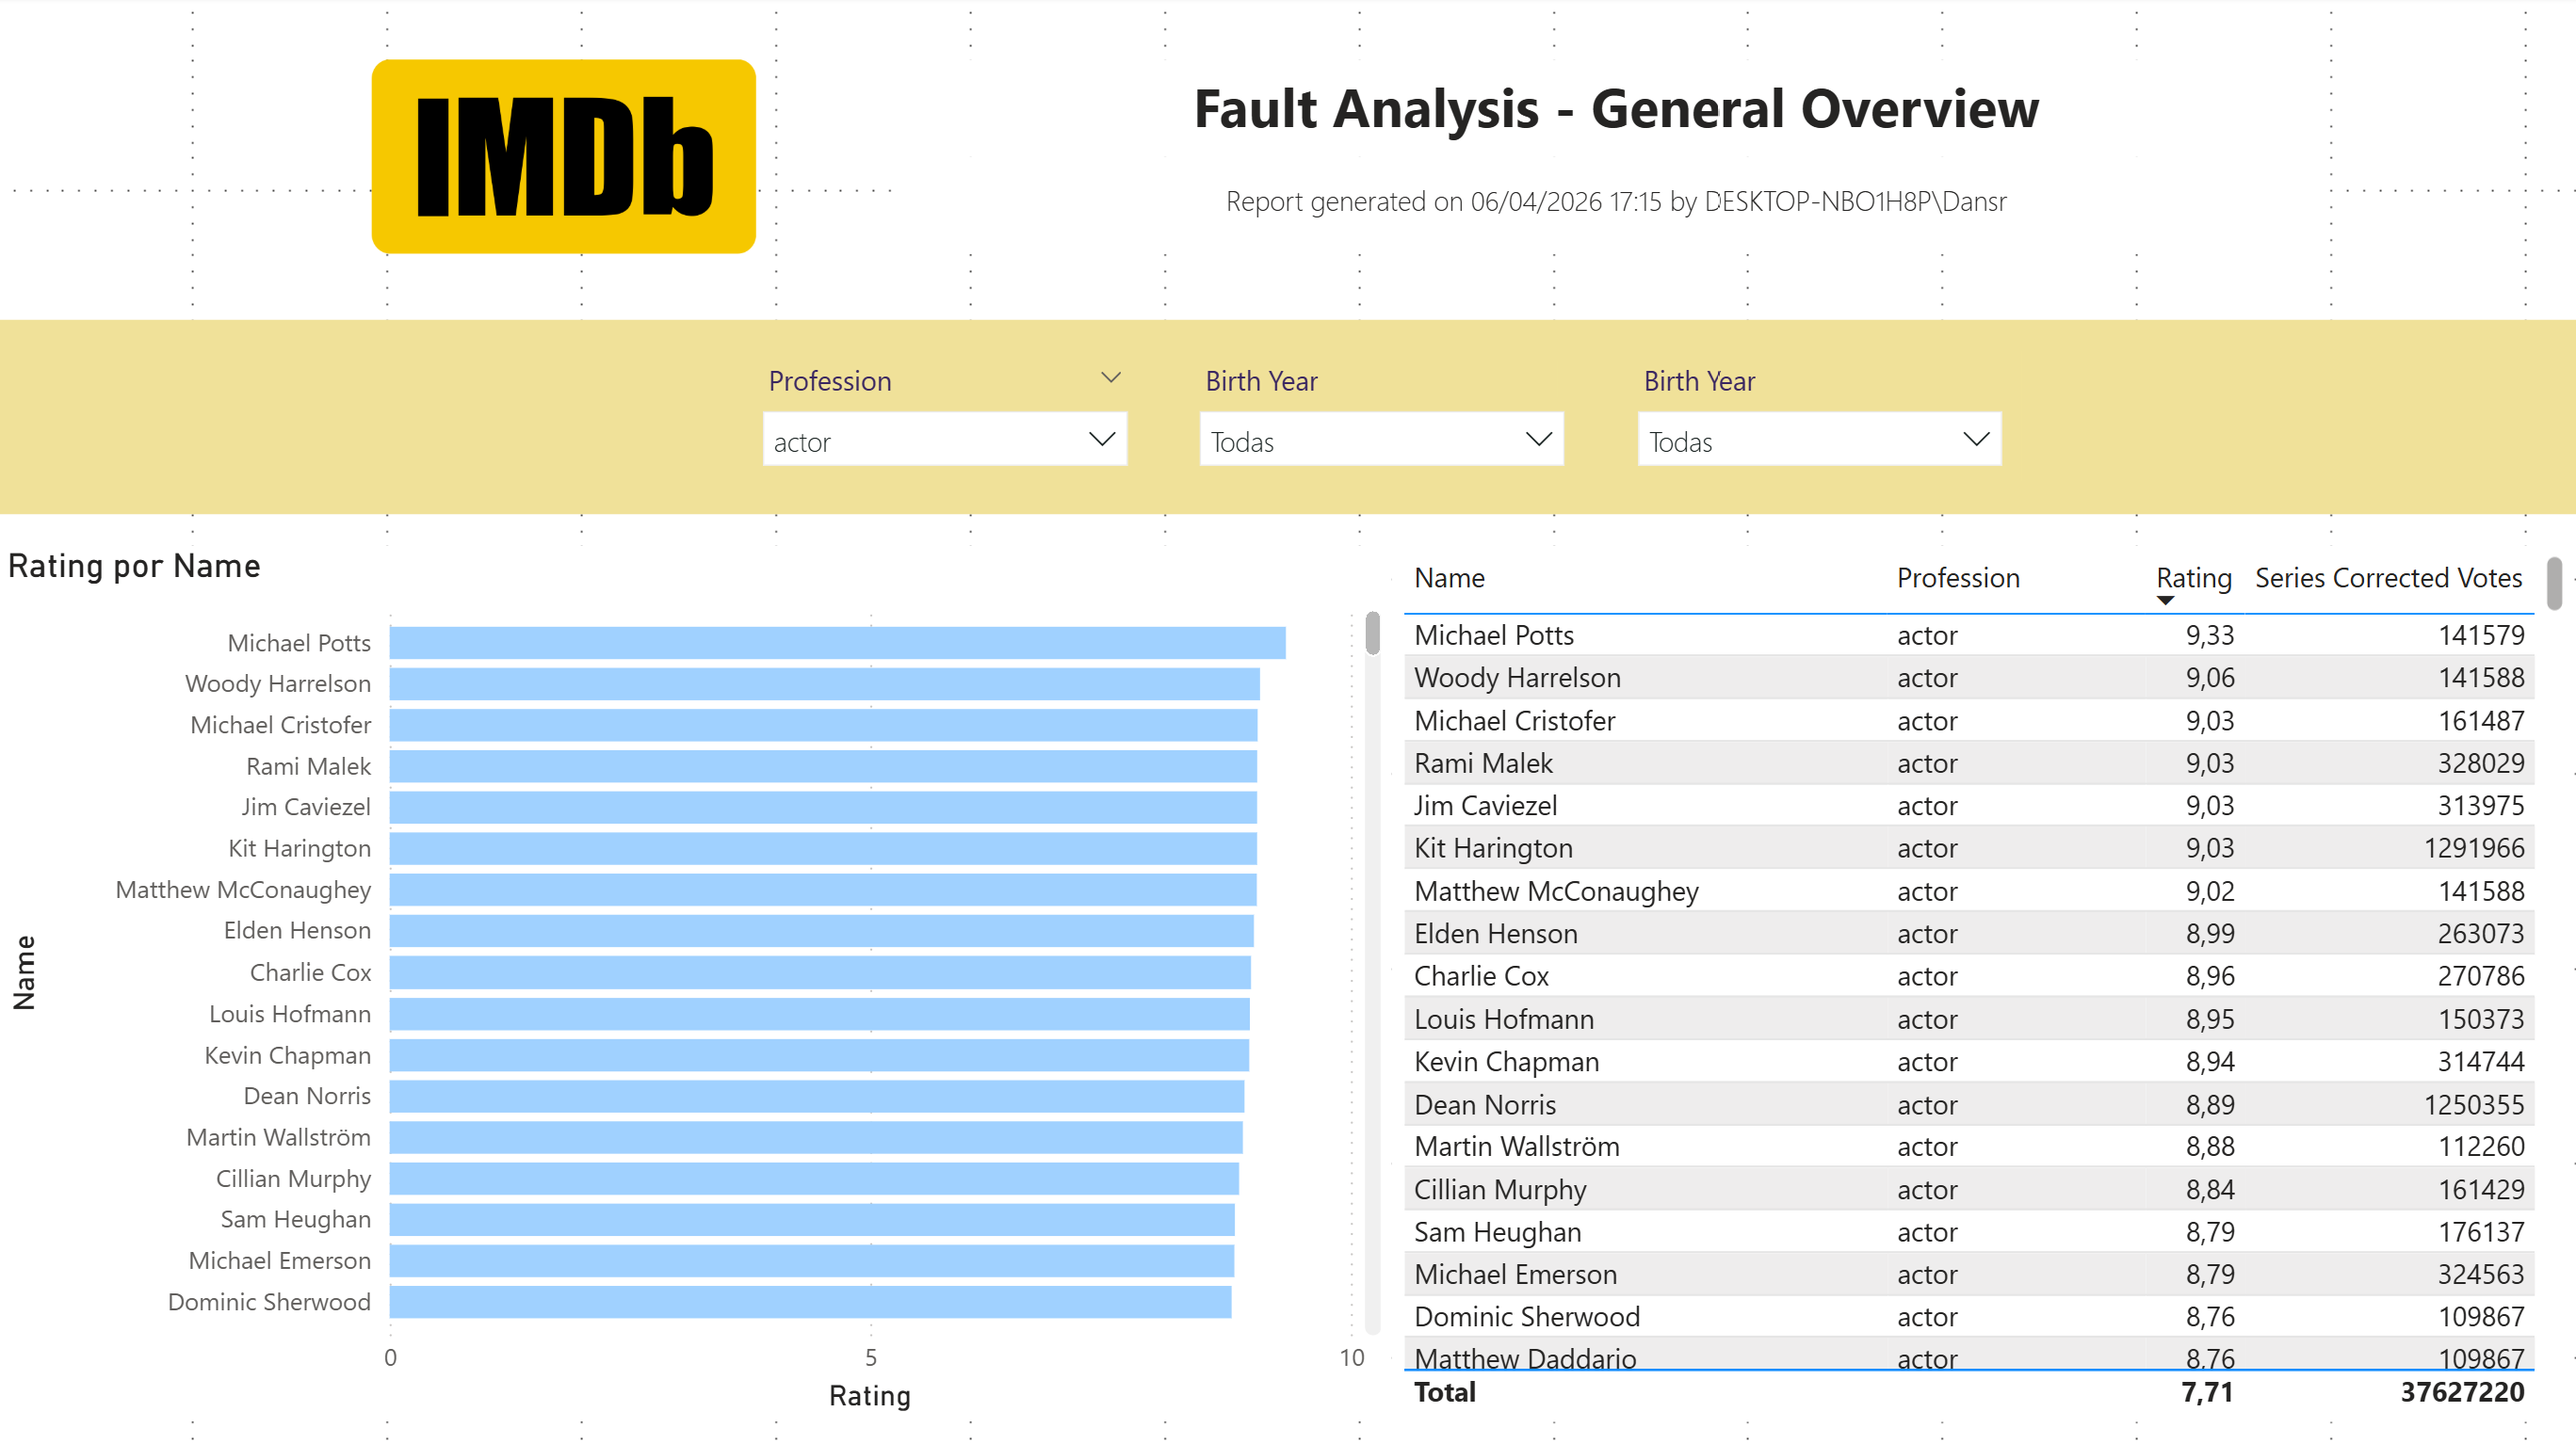
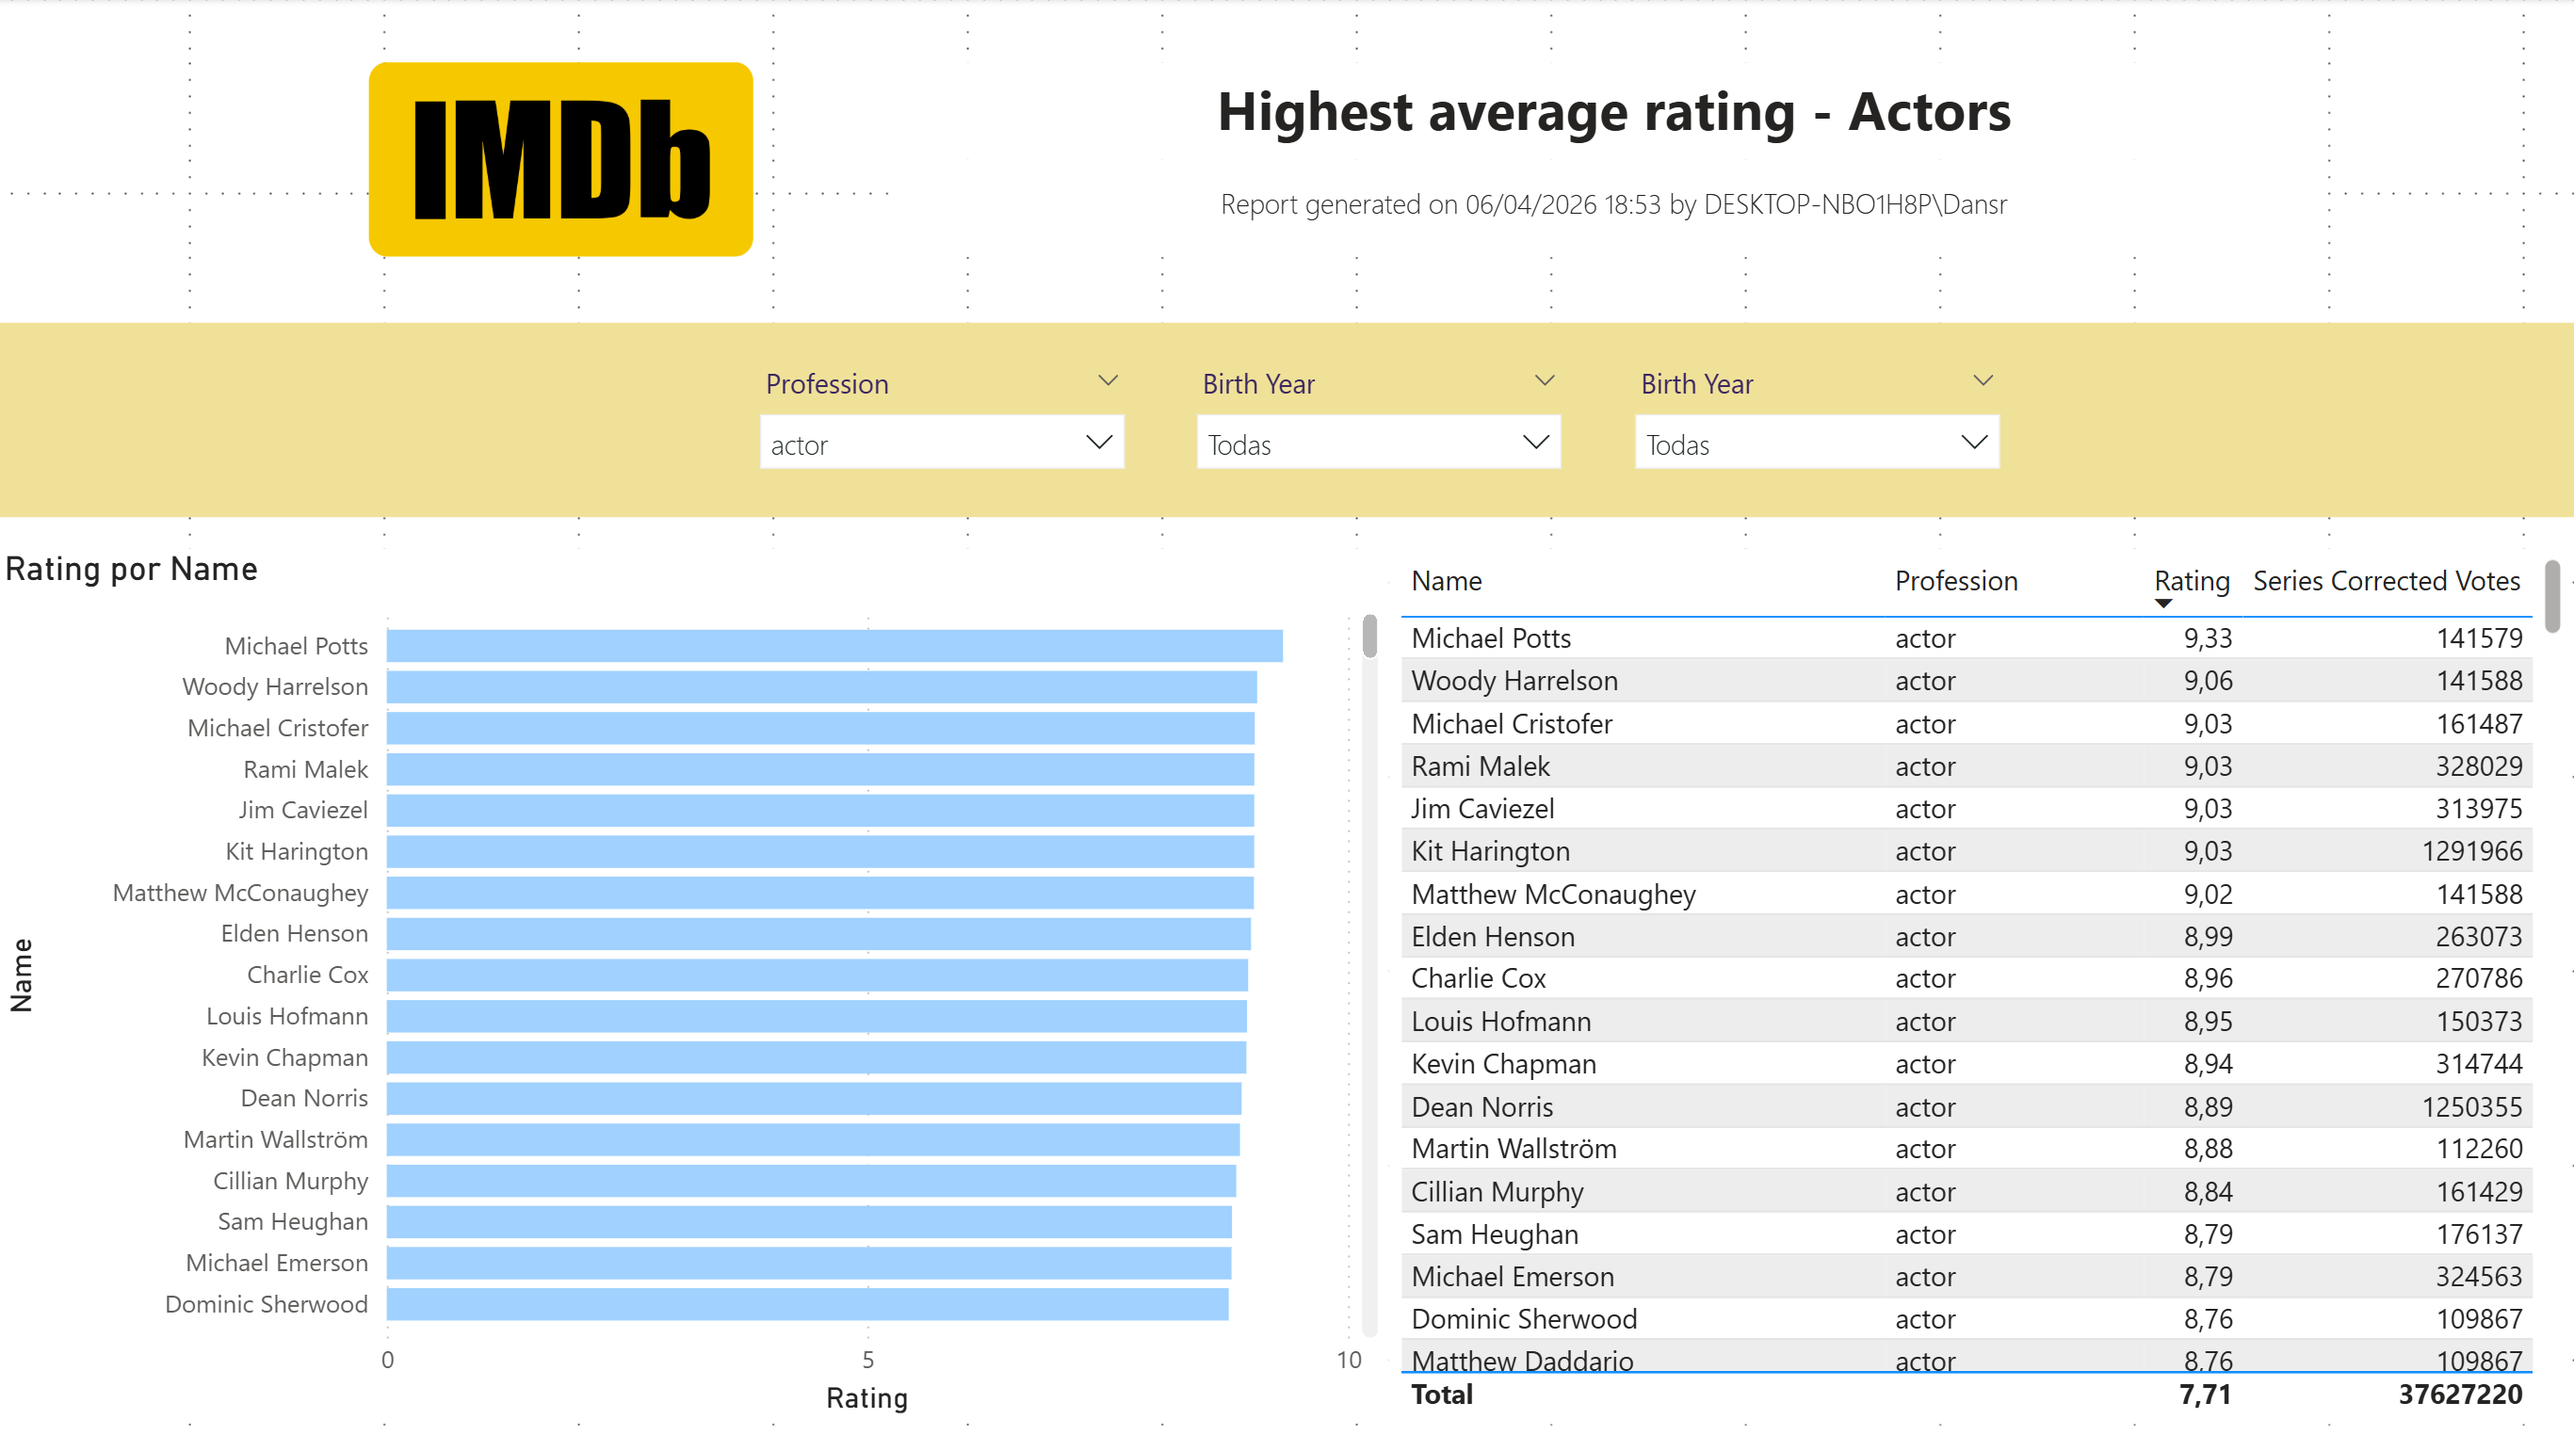
Report - Business Questions

diff --git a/report.md b/report.md
@@ -438,15 +438,23 @@ The `fact_ratings` table is designed at a Participant-per-Episode grain. This me
 
 While the TV landscape features over 28 genres, popularity is consistently dominated by a core group. As seen in the visualization, Drama, Action and Comedy maintain a combined vote share of over 40% consistently since the year 2000."
 
-### Q7 — Who are the top 10 directors whose movies have the highest average rating with at least 100,000 total votes?
+### Q7 — Who are the top 10 actors whose movies have the highest average rating with at least 100,000 total votes?
 
 ![Q7](Visualization/Q7.png)
 
 Our analysis reveals that **Michael Potts** is the highest-rated actor among those with significant audience reach. By filtering for a minimum of 100,000 votes, we have isolated the top tier of television talent, where actors like Kit Harington and Dean Norris demonstrate an exceptional balance between critical acclaim (9.0+ ratings) and massive public engagement (1M+ votes)."
 
-### Q8 — Who are the top 10 actors whose movies have the highest average rating with at least 100,000 total votes?
+### Q8 — Who are the top 10 directors whose movies have the highest average rating with at least 100,000 total votes?
+
+![Q8](Visualization/Q8.png)
+
+The director's analysis identifies **Vince Gilligan** as the most consistent high-performer in the dataset, boasting a 9.27 rating. By using our Series Corrected Votes measure, we can accurately compare veteran directors like Jack Bender (8.16 with 334k votes) against contemporary masters, providing a clear picture of directional excellence over the last 26 years.
 
 ### Q9 — What is the correlation between the total number of episodes in a series and its overall average rating?
+
+![Q9](Visualization/Q91.png)
+
+Our correlation analysis confirms a negative trend between series length and quality. While short series (0-200 episodes) exhibit high volatility in ratings, longer series tend to converge towards lower average scores. This suggests that sustained production over hundreds of episodes is often associated with a decline in perceived quality, with only a few outliers managing to maintain 'prestige' ratings in the long run.
 
 ### Q10 — At what point (season/episode number) do highly-rated series typically start to see a significant decline in user ratings? (Jum the Shark effect)
 
